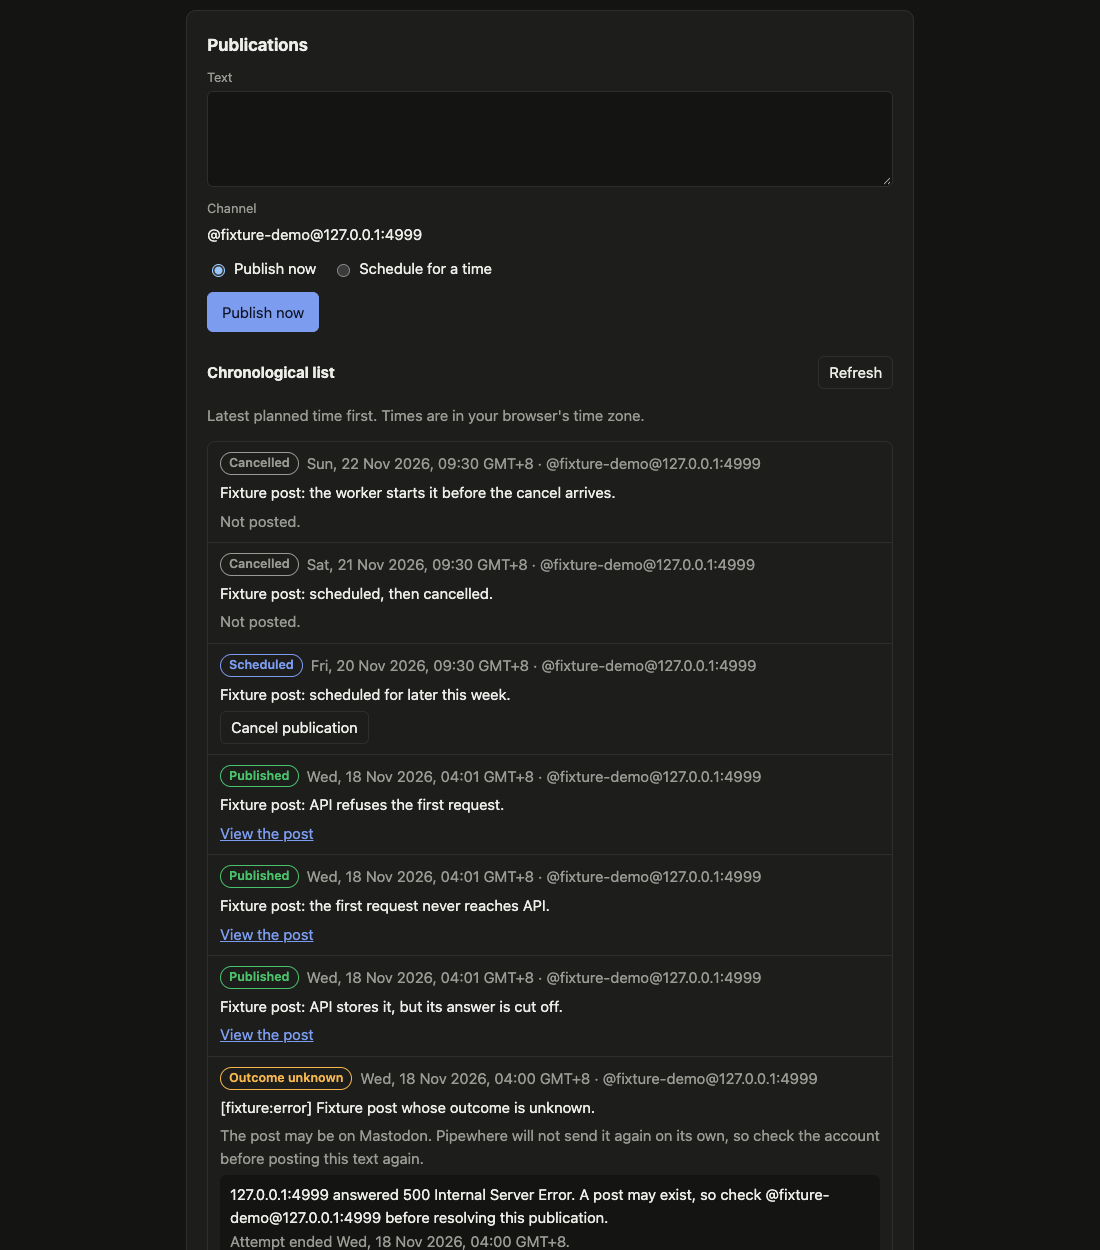
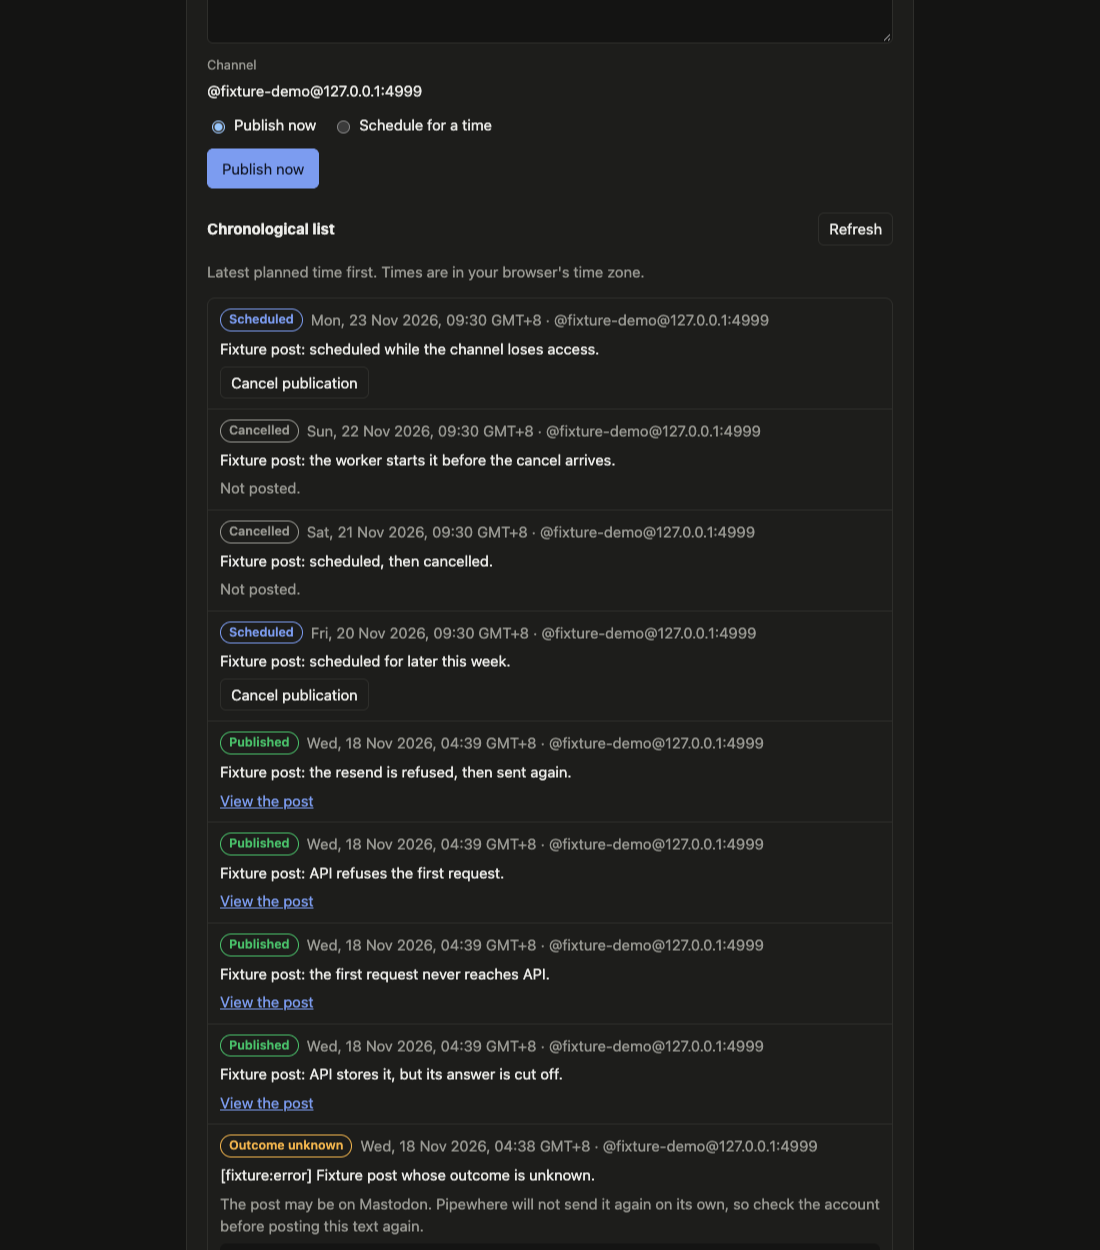
docs(pipelines): recapture 00011's screenshots at the reviewed head
The screenshots came from an earlier run, and the organization switch
showed the form as it was before it stayed on the page without a channel.
They now come from the run the plan records, with one more showing a
channel losing access while a submission is unconfirmed.

Changed region(s): [[0.1855, 0.0312, 0.8036, 0.9984], [0.7418, 0.2808, 0.8036, 0.312], [0.7418, 0.156, 0.8036, 0.1872]]

diff --git a/docs/pipelines/00011-web-publishing-one-account/plan.md b/docs/pipelines/00011-web-publishing-one-account/plan.md
@@ -28,7 +28,7 @@ Built in one PR, against #41. API and Worker do not change. Every endpoint Web n
 
 ### Commands
 
-Run at `6ef1ffa`, from the repository root unless noted:
+Run at `76ce507`, from the repository root unless noted:
 
 - `pnpm --filter @pipewhere/web test`: 27 pass. `publishing.test.ts` covers the key, the submission state including a refused resend, local times in New York including both daylight-saving changes, the list's order, reloading every page shown, merging, the state descriptions, and the messages. `api.test.ts` runs the real request code against a stubbed `fetch`: an unreadable 2xx, a 5xx, a failed connection, a 4xx, and a create whose answer is cut off after API stored it, sent again with the same key.
 - `pnpm --filter @pipewhere/web typecheck`: clean.
@@ -39,7 +39,7 @@ API, Worker, and Auth do not change, so their suites were not run.
 
 ### Browser checks against a local stack
 
-Verified at `6ef1ffa`. The stack ran only on the builder's machine, with its own PostgreSQL and Restate containers. Web ran as a production build. API and Worker ran from their libraries with the plain-HTTP Mastodon client, against a fake Mastodon instance on a local port. The fake's account is `@fixture-demo`, and every post text starts with "Fixture". No real instance was called. A script drove headless Chrome 157 through the DevTools protocol, and read the database to check each result. It simulated network failures by intercepting requests in the browser.
+Verified at `76ce507`. The stack ran only on the builder's machine, with its own PostgreSQL and Restate containers. Web ran as a production build. API and Worker ran from their libraries with the plain-HTTP Mastodon client, against a fake Mastodon instance on a local port. The fake's account is `@fixture-demo`, and every post text starts with "Fixture". No real instance was called. A script drove headless Chrome 157 through the DevTools protocol, and read the database to check each result. It simulated network failures by intercepting requests in the browser.
 
 All 42 checks passed:
 
@@ -71,6 +71,7 @@ Screenshots from that run, all of fixture data:
 - [The daylight-saving gap in America/New_York](evidence/daylight-saving-gap.png)
 - [Failed and outcome unknown, each with its reason](evidence/failed-and-unknown.png)
 - [An unconfirmed create, and a cancel that lost the race](evidence/unconfirmed-and-cancel-race.png)
+- [An unconfirmed submission kept while its channel loses access](evidence/channel-loses-access.png)
 - [The second organization, after the first's late answer](evidence/organization-switch.png)
 - [Phone width](evidence/phone.png)
 - [Dark scheme](evidence/dark-scheme.png)
